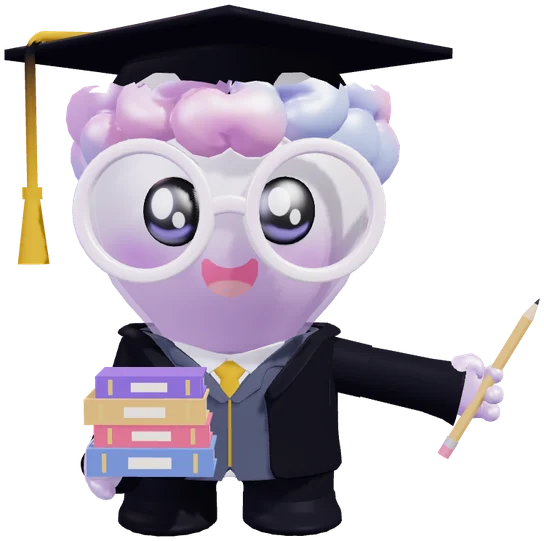
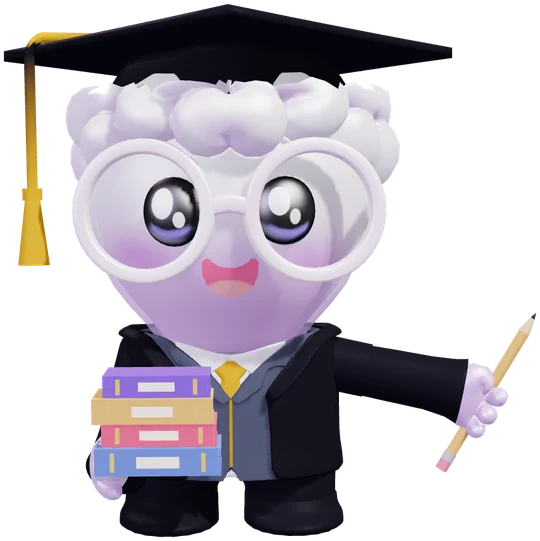
Fix the wizard's book sleeve, grip the Scholar's pencil and use the new page mascots
- Fantasy: the book-side bell sleeve rises above the arm band, so its top
  stayed put and tore into a purple flap; hold.frame.sleeveTop lets it follow.
- Scholar: the pencil runs straight through the fist and the hand leans it
  outward at the wrist (holdPose.right.tilt), pushed into the curled fingers.
- Solve, AI Tutor, Notes Hub and Study Mode use the client's new mascot art
  (public/mascot-pages, cut out by tmp/page-mascots.py).

diff --git a/frontend/src/pages/TutorPage.css b/frontend/src/pages/TutorPage.css
@@ -27,17 +27,17 @@
   box-shadow: var(--ace-shadow-soft, 0 14px 42px -28px rgba(68,42,151,.3));
 }
 
+/* ACE wondering with a notebook and a question mark (client art). */
 .tutor-hero-mascot {
   position: absolute;
-  left: 1.25rem;
-  bottom: -1rem;
-  width: clamp(125px, 16vw, 178px);
-  aspect-ratio: 1;
-  background-image: var(--ace-sprite-image);
-  background-position: 0 0;
-  background-size: 200% 200%;
-  background-repeat: no-repeat;
-  filter: drop-shadow(0 18px 25px rgba(78, 52, 165, 0.2));
+  left: clamp(1rem, 3vw, 2.4rem);
+  top: 9px;
+  width: auto;
+  height: calc(100% - 16px);
+  max-height: 176px;
+  pointer-events: none;
+  user-select: none;
+  filter: drop-shadow(0 14px 18px rgba(78, 52, 165, 0.16));
   animation: tutor-float 4.6s ease-in-out infinite;
 }
 
@@ -151,7 +151,7 @@
 /* ---------- Empty library ---------- */
 .tutor-empty { position: relative; display: grid; grid-template-columns: minmax(180px, 280px) 1fr; align-items: center; gap: clamp(1rem, 4vw, 3rem); padding: clamp(1.4rem, 4vw, 3rem); overflow: hidden; border: 1px solid var(--ace-border, #e5ddf8); border-radius: var(--ace-radius-panel, 30px); background: radial-gradient(circle at 18% 50%, rgba(108,61,244,.1), transparent 16rem), #fff; box-shadow: var(--ace-shadow, 0 24px 64px -32px rgba(68,42,151,.35)); }
 .tutor-empty__art { display: grid; place-items: center; aspect-ratio: 1; border-radius: 50%; background: linear-gradient(135deg, #eef4ff, #f5f0ff 60%, #fff3f9); }
-.tutor-empty__mascot { width: 82%; aspect-ratio: 1; background-image: var(--ace-sprite-image); background-position: 100% 0; background-size: 200% 200%; background-repeat: no-repeat; filter: drop-shadow(0 18px 25px rgba(78,52,165,.2)); animation: tutor-float 4.6s ease-in-out infinite; }
+.tutor-empty__mascot { width: 84%; height: auto; pointer-events: none; user-select: none; filter: drop-shadow(0 16px 22px rgba(78,52,165,.16)); animation: tutor-float 4.6s ease-in-out infinite; }
 .tutor-empty__copy h2 { margin: 0; font-size: clamp(1.35rem, 2.6vw, 2rem); line-height: 1.12; letter-spacing: -.015em; }
 .tutor-empty__copy > p { max-width: 560px; margin: .7rem 0 0; color: var(--ace-muted, #696b8e); line-height: 1.6; }
 .tutor-empty__steps { display: flex; flex-wrap: wrap; gap: .5rem; margin: 1.1rem 0 1.4rem; padding: 0; list-style: none; }
@@ -209,14 +209,14 @@
 
 @media (max-width: 720px) {
   .tutor-hero { align-items: flex-start; min-height: 190px; padding: 1.25rem 1rem 1.25rem 7.2rem; }
-  .tutor-hero-mascot { left: -.35rem; width: 125px; }
+  .tutor-hero-mascot { left: .45rem; top: auto; bottom: 10px; height: 122px; }
   .tutor-status { position: absolute; right: 1rem; bottom: 1rem; }
 }
 
 @media (max-width: 480px) {
   .tutor-page { padding: .65rem; }
   .tutor-hero { min-height: 205px; padding: 1.1rem .9rem 3.6rem 6.1rem; border-radius: 22px; }
-  .tutor-hero-mascot { left: -1rem; bottom: -.5rem; width: 116px; }
+  .tutor-hero-mascot { left: .3rem; bottom: 12px; height: 102px; }
   .tutor-hero h1 { font-size: 1.45rem; }
   .tutor-hero p { font-size: .84rem; }
   .tutor-chat-card { border-radius: 22px; }

diff --git a/frontend/src/pages/SolveProblemsPage.css b/frontend/src/pages/SolveProblemsPage.css
@@ -32,13 +32,13 @@
 .solve-problems-page .solve-page-intro h1 { max-width:680px; margin:0; font-size:clamp(1.8rem,3.6vw,3.05rem); line-height:1.08; letter-spacing:-0.012em; }
 .solve-problems-page .solve-page-intro p { max-width:620px; margin:.75rem 0 0; color:var(--ace-muted,#696b8e); font-size:clamp(.92rem,1.4vw,1.02rem); line-height:1.65; }
 
+/* ACE carrying a photo to upload (client art, public/mascot-pages). */
 .solve-problems-page .solve-page-mascot {
-  position:absolute; z-index:1; right:clamp(.75rem,5vw,4.5rem); bottom:-14px; width:172px; aspect-ratio:1;
-  background-image:var(--ace-sprite-image);
-  background-position:100% 0%;
-  background-size:200% 200%;
-  background-repeat:no-repeat;
-  filter:drop-shadow(0 18px 22px rgba(83,49,176,.18));
+  --mascot-h:clamp(170px,19vw,236px);
+  position:absolute; z-index:1; top:calc(50% - (var(--mascot-h) / 2)); right:clamp(1rem,5vw,4.5rem);
+  width:auto; height:var(--mascot-h);
+  pointer-events:none; user-select:none;
+  filter:drop-shadow(0 16px 20px rgba(83,49,176,.16));
   animation:solve-mascot-float 4.8s ease-in-out infinite;
 }
 
@@ -156,7 +156,7 @@
 @media (max-width:720px) {
   .solve-problems-page { padding-inline:.85rem; }
   .solve-problems-page .solve-page-intro { min-height:190px; align-items:flex-start; padding-right:7rem; }
-  .solve-problems-page .solve-page-mascot { right:-1rem; width:135px; }
+  .solve-problems-page .solve-page-mascot { --mascot-h:128px; top:auto; bottom:.6rem; right:.2rem; }
   .solve-problems-page .problem-actions, .solve-problems-page .ai-content-tabs { grid-template-columns:1fr; }
   .solve-problems-page .solution-view-header, .solve-problems-page .focus-banner { align-items:flex-start; flex-direction:column; }
   .solve-problems-page .solution-view-meta { text-align:left; }
@@ -167,7 +167,7 @@
   .solve-problems-page .solve-page-intro { min-height:176px; margin-bottom:.75rem; padding:1.25rem 6rem 1.25rem 1.1rem; border-radius:22px; }
   .solve-problems-page .solve-page-intro h1 { font-size:1.45rem; }
   .solve-problems-page .solve-page-intro p { font-size:.82rem; line-height:1.5; }
-  .solve-problems-page .solve-page-mascot { right:-1.5rem; bottom:-.5rem; width:116px; }
+  .solve-problems-page .solve-page-mascot { --mascot-h:104px; right:-.5rem; bottom:.5rem; }
   .solve-problems-page .upload-card { padding:1rem; border-radius:22px; }
   .solve-problems-page .tab-button { min-height:48px; padding-inline:.45rem; font-size:.78rem; }
   .solve-problems-page .image-drop-area, .solve-problems-page .text-input { min-height:220px; }

diff --git a/frontend/src/pages/StudyModePage.css b/frontend/src/pages/StudyModePage.css
@@ -113,18 +113,18 @@
   min-height: 315px;
 }
 
+/* ACE winking with a pencil and a notebook, running toward the next step
+   (client art). The summary cards stand in front of the legs. */
 .study-mode-mascot {
   position: absolute;
   z-index: 1;
-  top: -28px;
-  right: clamp(-58px, -2vw, -18px);
-  width: clamp(280px, 35vw, 430px);
-  aspect-ratio: 1;
-  background-image: var(--ace-sprite);
-  background-repeat: no-repeat;
-  background-position: right bottom;
-  background-size: 200% 200%;
-  filter: drop-shadow(0 26px 28px rgba(75, 45, 160, 0.18));
+  top: -30px;
+  right: clamp(24px, 6vw, 96px);
+  width: auto;
+  height: clamp(290px, 27vw, 345px);
+  pointer-events: none;
+  user-select: none;
+  filter: drop-shadow(0 22px 26px rgba(75, 45, 160, 0.16));
 }
 
 .study-mode-hero-summary {
@@ -405,7 +405,7 @@
 
 @media (max-width: 1020px) {
   .study-mode-hero { grid-template-columns: minmax(0, 1fr) 330px; min-height: 370px; }
-  .study-mode-mascot { top: 4px; right: -48px; width: 340px; }
+  .study-mode-mascot { top: -12px; right: 10px; height: 318px; }
   .study-mode-hero-summary { left: -0.5rem; }
   .step-description { display: none; }
   .mode-card { grid-column: span 6; }
@@ -418,7 +418,7 @@
   .study-mode-hero-copy { align-self: start; }
   .study-mode-hero-copy h1 { max-width: 620px; font-size: clamp(2.4rem, 10vw, 4rem); }
   .study-mode-hero-visual { min-height: 250px; }
-  .study-mode-mascot { top: -52px; right: 50%; width: 310px; transform: translateX(50%); }
+  .study-mode-mascot { top: -40px; right: 50%; height: 300px; transform: translateX(50%); }
   .study-mode-hero-summary { right: 0; bottom: -0.15rem; left: 0; }
   .study-mode-stepper { grid-template-columns: 1fr; }
   .step-item { min-height: 62px; }
@@ -438,7 +438,7 @@
   .study-mode-hero-actions { flex-direction: column; }
   .study-mode-hero-actions .btn-primitive { width: 100%; }
   .study-mode-hero-visual { min-height: 265px; }
-  .study-mode-mascot { top: -35px; width: 280px; }
+  .study-mode-mascot { top: -30px; height: 282px; }
   .study-mode-hero-summary { grid-template-columns: 1fr 1fr; gap: 0.45rem; }
   .study-mode-summary-tile { padding: 0.75rem; border-radius: 15px; }
   .study-mode-summary-tile p { display: none; }

diff --git a/frontend/src/components/mascot/mascotModel.js b/frontend/src/components/mascot/mascotModel.js
@@ -1247,15 +1247,17 @@ export const detachPropSet = (baseModel) => {
   anchors.forEach((anchor) => anchor.removeFromParent());
   baseModel.userData.propAnchors = null;
   const rigs = baseModel.userData.armRigs;
-  setHandGrip(rigs?.left, false);
-  setHandGrip(rigs?.right, false);
+  [rigs?.left, rigs?.right].forEach((rig) => {
+    if (rig) rig.gripTilt = 0;
+    setHandGrip(rig, false);
+  });
 };
 
 const syncPropAnchors = (model) => {
   const rigs = model?.userData.armRigs;
   [rigs?.left, rigs?.right].forEach((rig) => {
     if (rig?.holdPivot && rig.gripping) {
-      rig.holdPivot.rotation.z = -(rig.shoulder.rotation.z + rig.wrist.rotation.z);
+      rig.holdPivot.rotation.z = (rig.gripTilt || 0) - (rig.shoulder.rotation.z + rig.wrist.rotation.z);
     }
   });
   model?.userData.propAnchors?.forEach((anchor) => {
@@ -1273,7 +1275,10 @@ const syncPropAnchors = (model) => {
 //   origin is the centre of the handle and +y runs along it;
 // - `anchor_pos` / `anchor_neg`: hanging from the open +x or -x palm;
 // - `anchor_body`: around the midpoint between the fingertips.
-export const attachPropSet = (baseModel, propScene) => {
+// `holdPose.<side>.tilt` (degrees, outward) leans that fist and the handle in
+// it at the wrist, e.g. a pencil pointed like a pointer: tilting the prop
+// alone would push it out through the curled fingers.
+export const attachPropSet = (baseModel, propScene, holdPose = {}) => {
   detachPropSet(baseModel);
   const rigs = baseModel?.userData.armRigs;
   if (!rigs?.left?.handTip || !rigs?.right?.handTip || !propScene) return [];
@@ -1288,6 +1293,7 @@ export const attachPropSet = (baseModel, propScene) => {
     if (gripSide) {
       const rig = rigs[gripSide];
       setHandGrip(rig, true);
+      rig.gripTilt = THREE.MathUtils.degToRad(holdPose[gripSide]?.tilt || 0) * (gripSide === 'right' ? -1 : 1);
       (rig.holdFrame || rig.wrist).add(anchor);
       anchor.position.copy(rig.holdFrame ? getGripCenter(rig) : rig.hand.position);
     } else if (side) {

diff --git a/frontend/src/pages/NotesHubPage.css b/frontend/src/pages/NotesHubPage.css
@@ -145,17 +145,18 @@
 
 .notes-hub-header p { max-width: 620px; margin: 0.8rem 0 0; color: var(--ace-muted); font-size: clamp(0.94rem, 1.5vw, 1.05rem); line-height: 1.6; }
 
+/* ACE hugging a notebook (client art). The art is a bust cut off at the
+   bottom, so it sits flush on the card's bottom edge. */
 .notes-hub-mascot {
   position: absolute;
-  right: clamp(-18px, 1vw, 16px);
-  bottom: -14px;
-  width: clamp(180px, 26vw, 258px);
-  aspect-ratio: 1;
-  background-image: var(--ace-sprite);
-  background-repeat: no-repeat;
-  background-position: left bottom;
-  background-size: 200% 200%;
-  filter: drop-shadow(0 18px 22px rgba(75, 45, 160, 0.18));
+  right: clamp(1rem, 4vw, 3.5rem);
+  bottom: 0;
+  width: auto;
+  height: calc(100% - 18px);
+  max-height: 250px;
+  pointer-events: none;
+  user-select: none;
+  filter: drop-shadow(0 12px 22px rgba(75, 45, 160, 0.16));
 }
 
 /* Search, filter, and actions */
@@ -470,7 +471,7 @@
   .notes-hub-intro__copy { max-width: 75%; }
   .notes-hub-header h1 { font-size: clamp(2.1rem, 11vw, 3rem); }
   .notes-hub-header p { font-size: 0.9rem; }
-  .notes-hub-mascot { right: -28px; width: 190px; }
+  .notes-hub-mascot { right: .5rem; height: 172px; }
   .notes-hub-header-controls,
   .notes-hub-search-and-filters { flex-direction: column; align-items: stretch; }
   .notes-hub-search-and-filters { flex-basis: auto; }
@@ -493,7 +494,7 @@
   .notes-hub-intro__copy { max-width: 72%; }
   .notes-hub-eyebrow { font-size: 0.66rem; }
   .notes-hub-header h1 { font-size: 2.3rem; }
-  .notes-hub-mascot { right: -44px; bottom: -7px; width: 178px; }
+  .notes-hub-mascot { right: .3rem; height: 138px; }
   .notes-hub-page .folder-sidebar { border-radius: 16px; }
   .notes-hub-page .folder-header { display: none; }
   .notes-hub-page .folder-item-wrapper { min-width: 145px; }

diff --git a/frontend/src/components/mascot/mascotArmPose.js b/frontend/src/components/mascot/mascotArmPose.js
@@ -22,6 +22,10 @@ export const ARM_FRAME = {
   minY: 0.19,
   maxY: 0.44,
   maxAbsZ: 0.24,
+  // Out past the torso a raised sleeve (the wizard's bell sleeve) may reach
+  // above `maxY`: `sleeveTop: { fromX, maxY }` widens the band there so the
+  // whole sleeve follows the arm instead of tearing into a flap.
+  sleeveTop: null,
   // Beside the torso only the sleeve, above the armpit, follows the arm;
   // lower vertices there are the sides of a jacket or robe, which would
   // otherwise be dragged forward and open a hole at the hip.
@@ -57,7 +61,9 @@ export const shortenArmFrame = (frame, armLength) => {
   FRAME_RANGE_KEYS.forEach((key) => { next[key] = frame[key].map((value) => shortenReach(value, armLength)); });
   return next;
 };
-const isArmPoint = (point, frame) => point.y >= frame.minY && point.y <= frame.maxY
+const getBandTop = (point, frame) => (frame.sleeveTop && Math.abs(point.x) >= frame.sleeveTop.fromX
+  ? Math.max(frame.maxY, frame.sleeveTop.maxY) : frame.maxY);
+const isArmPoint = (point, frame) => point.y >= frame.minY && point.y <= getBandTop(point, frame)
   && Math.abs(point.z - frame.axisZ) <= frame.maxAbsZ;
 
 // Two-bone IK: returns the upper-arm and forearm rotations that put the palm
@@ -101,9 +107,7 @@ export const solveArmHold = (side, { target, pole = [0, -1, -0.4], roll = 0 }, f
 };
 
 export const getArmWeights = (point, frame = ARM_FRAME) => {
-  const inBand = point.y >= frame.minY && point.y <= frame.maxY
-    && Math.abs(point.z - frame.axisZ) <= frame.maxAbsZ;
-  if (!inBand) return { upper: 0, fore: 0 };
+  if (!isArmPoint(point, frame)) return { upper: 0, fore: 0 };
   const reach = Math.abs(point.x);
   const follow = Math.max(
     THREE.MathUtils.smoothstep(reach, frame.torsoX[0], frame.torsoX[1]),

diff --git a/frontend/src/pages/TutorPage.js b/frontend/src/pages/TutorPage.js
@@ -130,7 +130,7 @@ const ProgressTags = ({ counts }) => {
 const TutorEmptyState = () => (
   <section className="tutor-empty" aria-labelledby="tutor-empty-title">
     <div className="tutor-empty__art" aria-hidden="true">
-      <div className="tutor-empty__mascot" />
+      <img className="tutor-empty__mascot" src="/mascot-pages/solve.webp" alt="" width="900" height="887" />
     </div>
     <div className="tutor-empty__copy">
       <span className="tutor-eyebrow">No problems yet</span>
@@ -320,7 +320,7 @@ const TutorPage = () => {
     <div className="tutor-page">
       <section className="tutor-workspace" aria-label="AI Tutor workspace">
         <header className="tutor-hero">
-          <div className="tutor-hero-mascot" aria-hidden="true" />
+          <img className="tutor-hero-mascot" src="/mascot-pages/ai-tutor.webp" alt="" width="801" height="900" aria-hidden="true" />
           <div className="tutor-hero-copy">
             <span className="tutor-eyebrow">Your study buddy</span>
             <h1>

diff --git a/frontend/src/components/mascot/mascotCatalog.js b/frontend/src/components/mascot/mascotCatalog.js
@@ -442,6 +442,9 @@ export const POSED_VARIANTS = {
       // The witch hat (robe, hat band and buckle materials above the neck)
       // rides higher so the brain shows under its brim.
       headwear: { materials: ['QUAN_AO', 'That_lung', 'pk_non'], fromY: 0.9, lift: 0.12 },
+      // The book-side bell sleeve rises to y≈0.48, above the default arm
+      // band; without this its top stayed put and tore into a flap.
+      frame: { sleeveTop: { fromX: 0.4, maxY: 0.52 } },
     },
   },
   // body_AO_hoodi2.glb (2026-09-14): purple ribbed hoodie and shoes match
@@ -481,7 +484,7 @@ export const PROP_SETS = {
     url: '/mascot/props/graduation.glb',
     label: 'Pencil & books',
     holdArms: ['right', 'left'],
-    holdPose: { right: { down: 12, forward: 8 }, left: { down: 38, forward: 80 } },
+    holdPose: { right: { down: 12, forward: 8, tilt: 30 }, left: { down: 38, forward: 80 } },
   },
 };
 

diff --git a/frontend/src/components/mascot/mascotArmPose.test.js b/frontend/src/components/mascot/mascotArmPose.test.js
@@ -31,6 +31,14 @@ test('weights only the arms: torso, head and hands blend by reach along the arm'
   expect(getArmWeights(new THREE.Vector3(0.24, 0.22, 0))).toEqual({ upper: 0, fore: 0 });
 });
 
+test('sleeveTop lets a raised sleeve follow the arm without catching the head', () => {
+  const frame = { ...ARM_FRAME, sleeveTop: { fromX: 0.4, maxY: 0.52 } };
+  const sleeveTop = new THREE.Vector3(0.5, 0.47, 0);
+  expect(getArmWeights(sleeveTop)).toEqual({ upper: 0, fore: 0 });
+  expect(getArmWeights(sleeveTop, frame).fore).toBeGreaterThan(0.99);
+  expect(getArmWeights(new THREE.Vector3(0.3, 0.47, 0), frame)).toEqual({ upper: 0, fore: 0 });
+});
+
 test('rebuilds a T-pose character as skinned meshes and moves the held prop with the hand', () => {
   const model = new THREE.Group();
   const arm = new THREE.Mesh(new THREE.BoxGeometry(1.36, 0.05, 0.05), new THREE.MeshStandardMaterial());

diff --git a/frontend/src/pages/NotesHubPage.js b/frontend/src/pages/NotesHubPage.js
@@ -491,9 +491,12 @@ const NotesHubPage = () => {
                 <h1>Notes Hub</h1>
                 <p>Keep every problem with its solution, plus hints and concept notes, ready for your next study session.</p>
               </div>
-              <div
+              <img
                 className="notes-hub-mascot"
-                style={{ '--ace-sprite': "url('/images/ace-sprite-v2.png')" }}
+                src="/mascot-pages/notes-hub.webp"
+                alt=""
+                width="814"
+                height="900"
                 aria-hidden="true"
               />
             </div>

diff --git a/frontend/src/pages/StudyModePage.js b/frontend/src/pages/StudyModePage.js
@@ -313,9 +313,12 @@ const StudyModePage = () => {
             </div>
           </div>
           <div className="study-mode-hero-visual">
-            <div
+            <img
               className="study-mode-mascot"
-              style={{ '--ace-sprite': "url('/images/ace-sprite-v2.png')" }}
+              src="/mascot-pages/study-mode.webp"
+              alt=""
+              width="596"
+              height="900"
               aria-hidden="true"
             />
             <div className="study-mode-hero-summary">

diff --git a/frontend/src/pages/SolveProblemsPage.js b/frontend/src/pages/SolveProblemsPage.js
@@ -528,7 +528,7 @@ const SolveProblemsPage = () => {
           </h1>
           <p>Upload a problem, choose exactly what you want to work on, and learn with guidance built around your question.</p>
         </div>
-        <div className="solve-page-mascot" aria-hidden="true" />
+        <img className="solve-page-mascot" src="/mascot-pages/solve.webp" alt="" width="900" height="887" aria-hidden="true" />
       </header>
       <div className="solve-problems-layout">
         <div className="main-content">
